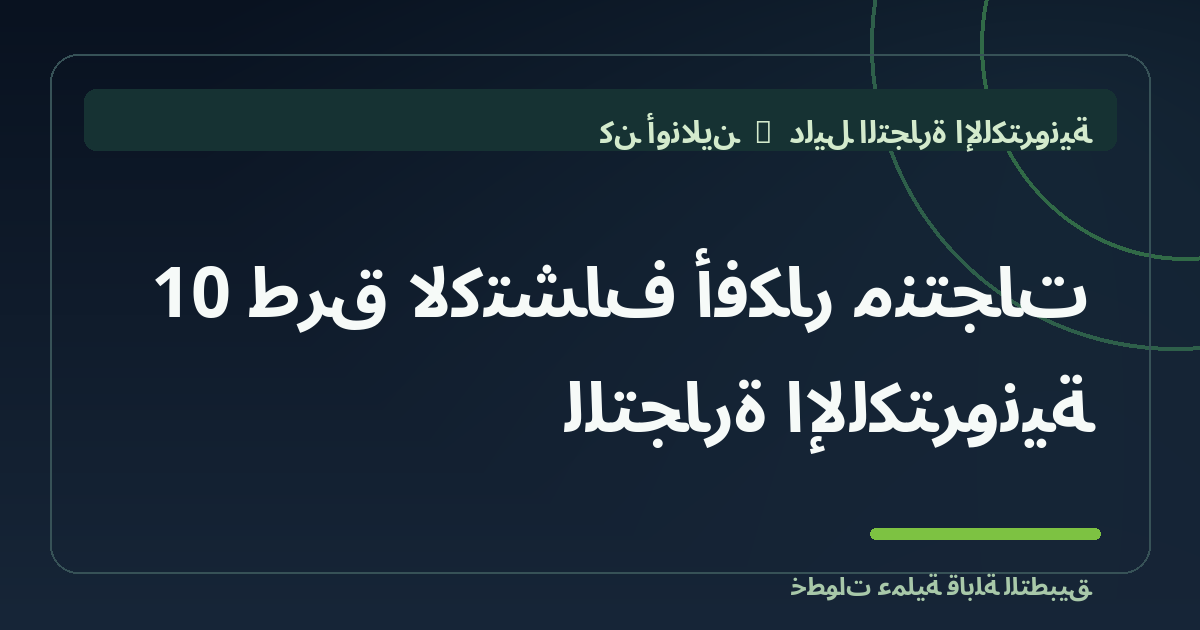
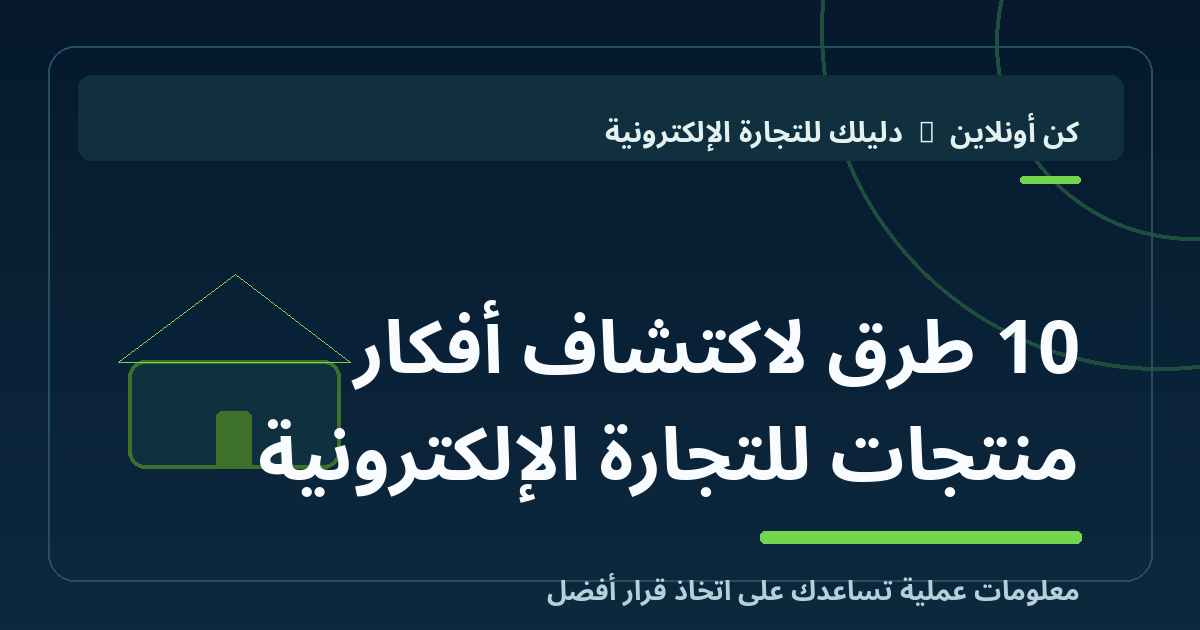
assets: rebuild Arabic editorial imagery with correct RTL shaping

diff --git a/blog/index.html b/blog/index.html
@@ -1,1 +1,1 @@
-<!doctype html><html lang="ar-EG" dir="rtl"><head><meta charset="utf-8"><meta name="viewport" content="width=device-width,initial-scale=1"><title>مدونة التجارة الإلكترونية في مصر | كن أونلاين</title><meta name="description" content="أدلة عملية لبناء المتجر وتخطيط التكلفة وإدارة الإعلانات والطلبات وقراءة الربح، مع أمثلة توضيحية وروابط لخدمات كن أونلاين."><meta name="robots" content="index,follow"><link rel="canonical" href="https://kun-online.com/blog/"><meta property="og:type" content="website"><meta property="og:title" content="مدونة التجارة الإلكترونية في مصر | كن أونلاين"><meta property="og:description" content="أدلة عملية لبناء المتجر وتخطيط التكلفة وإدارة الإعلانات والطلبات وقراءة الربح، مع أمثلة توضيحية وروابط لخدمات كن أونلاين."><meta property="og:url" content="https://kun-online.com/blog/"><link rel="preconnect" href="https://fonts.googleapis.com"><link rel="preconnect" href="https://fonts.gstatic.com" crossorigin><link href="https://fonts.googleapis.com/css2?family=Cairo:wght@400;600;700&family=Tajawal:wght@700;900&display=swap" rel="stylesheet"><link rel="stylesheet" href="/assets/site.css?v=agency-ui-20261018"><script type="application/ld+json">{"@context":"https://schema.org","@type":"Organization","@id":"https://kun-online.com/#organization","name":"كن أونلاين","alternateName":"Kun Online","url":"https://kun-online.com/","address":{"@type":"PostalAddress","addressCountry":"EG","addressRegion":"أسيوط","addressLocality":"أسيوط","streetAddress":"ميدان الأزهر"},"contactPoint":{"@type":"ContactPoint","contactType":"customer support","url":"https://wa.me/201021231619","description":"WhatsApp messages only; no voice calls."},"sameAs":["https://www.facebook.com/KunOnlineAgency","https://www.instagram.com/kunonlin/"]}</script><script type="application/ld+json">{"@context":"https://schema.org","@type":"CollectionPage","@id":"https://kun-online.com/blog/#page","url":"https://kun-online.com/blog/","name":"أدلة التجارة الإلكترونية للمتاجر في مصر","description":"أدلة عملية لبناء المتجر وتخطيط التكلفة وإدارة الإعلانات والطلبات وقراءة الربح، مع أمثلة توضيحية وروابط لخدمات كن أونلاين.","inLanguage":"ar-EG","isPartOf":{"@id":"https://kun-online.com/#website"},"about":{"@id":"https://kun-online.com/#organization"}}</script><script type="application/ld+json">{"@context":"https://schema.org","@type":"BreadcrumbList","itemListElement":[{"@type":"ListItem","position":1,"name":"الرئيسية","item":"https://kun-online.com/"},{"@type":"ListItem","position":2,"name":"أدلة التجارة الإلكترونية للمتاجر في مصر","item":"https://kun-online.com/blog/"}]}</script></head><body><nav class="site-nav" aria-label="التنقل الرئيسي"><a class="brand" href="/">كن <em>أونلاين</em></a><div class="site-links"><a href="/services/">الخدمات</a><a href="/system/">السيستم</a><a href="/about/">من نحن</a><a href="/pricing/">التسعير</a><a href="/blog/">المدونة</a><a href="/contact/">تواصل معنا</a></div><a class="phone" href="https://wa.me/201021231619" target="_blank" rel="noopener" aria-label="تواصل عبر واتساب">تواصل عبر واتساب</a></nav><main class="page"><p class="eyebrow">كن أونلاين · مصر والخليج</p><h1>أدلة التجارة الإلكترونية للمتاجر في مصر</h1><p class="lead">أدلة عملية لبناء المتجر وتخطيط التكلفة وإدارة الإعلانات والطلبات وقراءة الربح، مع أمثلة توضيحية وروابط لخدمات كن أونلاين.</p><section><label for="blog-search">ابحث في المقالات</label><input id="blog-search" type="search" placeholder="مثل: تكلفة المتجر أو الإعلانات" style="width:100%;padding:14px;border-radius:8px;font:inherit"><label for="blog-category">الموضوع</label><select id="blog-category" style="padding:12px;font:inherit"><option value="all">كل الموضوعات</option><option value="store">بناء المتجر</option><option value="ads">التسويق والإعلانات</option><option value="finance">الإدارة المالية</option><option value="ops">الطلبات والمخزون</option></select><p id="blog-empty" hidden>لا توجد مقالات تطابق البحث. جرب كلمة أخرى.</p><div class="grid"><!-- articles:start --><article class="card blog-card" data-category="store"><img src="/blog/images/ecommerce-product-ideas-research.png" alt="10 طرق لاكتشاف أفكار منتجات للتجارة الإلكترونية" width="1200" height="630" loading="lazy" decoding="async"><p>بناء المتجر · 19 أكتوبر 2026 · 11 دقائق</p><h2><a href="/blog/ecommerce-product-ideas-research">10 طرق لاكتشاف أفكار منتجات للتجارة الإلكترونية</a></h2><p>اكتشف عشر طرق عملية للعثور على أفكار منتجات قابلة للاختبار، من المراجعات وGoogle Trends إلى TikTok وMeta Ads Library، مع طريقة تقييم قبل شراء المخزون.</p></article><article class="card blog-card" data-category="store"><picture><source type="image/webp" srcset="/blog/images/ecommerce-first-30-days-plan-640.webp 640w, /blog/images/ecommerce-first-30-days-plan.webp 1200w" sizes="(max-width:600px) 90vw, 330px"><img src="/blog/images/ecommerce-first-30-days-plan.png" alt="خطة أول 30 يوم لبدء التجارة الإلكترونية من الصفر" width="1200" height="630" loading="lazy" decoding="async"></picture><p>بناء المتجر · 18 أكتوبر 2026 · 12 دقائق</p><h2><a href="/blog/ecommerce-first-30-days-plan">خطة أول 30 يوم لبدء التجارة الإلكترونية من الصفر</a></h2><p>خطة تنفيذية لأول 30 يوم في التجارة الإلكترونية من اختيار المنتج والمورد إلى التسعير والمتجر والإعلانات والشحن، مع مؤشرات قرار عملية لكل أسبوع.</p></article><article class="card blog-card" data-category="store"><picture><source type="image/webp" srcset="/blog/images/is-ecommerce-right-for-you-640.webp 640w, /blog/images/is-ecommerce-right-for-you.webp 1200w" sizes="(max-width:600px) 90vw, 330px"><img src="/blog/images/is-ecommerce-right-for-you.png" alt="هل التجارة الإلكترونية مناسبة لك؟ اختبر قرار بدء متجرك" width="1200" height="630" loading="lazy" decoding="async"></picture><p>بناء المتجر · 17 أكتوبر 2026 · 12 دقائق</p><h2><a href="/blog/is-ecommerce-right-for-you">هل التجارة الإلكترونية مناسبة لك؟ اختبر قرار بدء متجرك</a></h2><p>اختبر مدى ملاءمة التجارة الإلكترونية لوقتك وميزانيتك ومهاراتك. قارن المتجر المستقل والمنصات وتقديم الخدمات، واستخدم مصفوفة قرار قبل بدء مشروعك.</p></article><article class="card blog-card" data-category="finance"><picture><source type="image/webp" srcset="/blog/images/cod-shipping-returns-reconciliation-640.webp 640w, /blog/images/cod-shipping-returns-reconciliation.webp 1200w" sizes="(max-width:600px) 90vw, 330px"><img src="/blog/images/cod-shipping-returns-reconciliation.png" alt="الشحن والتحصيل COD والمرتجعات: مطابقة الأرقام خطوة بخطوة" width="1200" height="630" loading="lazy" decoding="async"></picture><p>المالية والشحن · 15 أكتوبر 2026 · 9 دقائق</p><h2><a href="/blog/cod-shipping-returns-reconciliation">الشحن والتحصيل COD والمرتجعات: مطابقة الأرقام خطوة بخطوة</a></h2><p>دليل لفصل حالة التسليم عن التحصيل المسجل والتسوية البنكية، وحساب رسوم الشحن والمرتجعات دون مضاعفة الإيرادات.</p></article><article class="card blog-card" data-category="ops"><picture><source type="image/webp" srcset="/blog/images/inventory-barcode-bundle-tracking-640.webp 640w, /blog/images/inventory-barcode-bundle-tracking.webp 1200w" sizes="(max-width:600px) 90vw, 330px"><img src="/blog/images/inventory-barcode-bundle-tracking.png" alt="إدارة المخزون بالباركود والباندلز: من الاستلام للمرتجع" width="1200" height="630" loading="lazy" decoding="async"></picture><p>المخزون والعمليات · 15 أكتوبر 2026 · 10 دقائق</p><h2><a href="/blog/inventory-barcode-bundle-tracking">إدارة المخزون بالباركود والباندلز: من الاستلام للمرتجع</a></h2><p>دليل عملي لفهم SKU والباركود وتتبع القطعة ومكونات الباندل والجرد ومسار المرتجعات في المتاجر الإلكترونية.</p></article><article class="card blog-card" data-category="ops"><picture><source type="image/webp" srcset="/blog/images/order-confirmation-delivery-rate-640.webp 640w, /blog/images/order-confirmation-delivery-rate.webp 1200w" sizes="(max-width:600px) 90vw, 330px"><img src="/blog/images/order-confirmation-delivery-rate.png" alt="نسبة تأكيد وتسليم الطلبات: طريقة الحساب الصحيحة" width="1200" height="630" loading="lazy" decoding="async"></picture><p>الطلبات والتشغيل · 15 أكتوبر 2026 · 10 دقائق</p><h2><a href="/blog/order-confirmation-delivery-rate">نسبة تأكيد وتسليم الطلبات: طريقة الحساب الصحيحة</a></h2><p>افهم اختلاف نسب التأكيد والتسليم والرفض والمرتجع ومتى تقارن دفعات الأوردرات دون تضليل بسبب حالات الشحن المعلقة.</p></article><article class="card blog-card" data-category="finance"><picture><source type="image/webp" srcset="/blog/images/real-cost-per-delivered-order-640.webp 640w, /blog/images/real-cost-per-delivered-order.webp 1200w" sizes="(max-width:600px) 90vw, 330px"><img src="/blog/images/real-cost-per-delivered-order.png" alt="تكلفة الطلب الفعلية: من الإعلان إلى التسليم" width="1200" height="630" loading="lazy" decoding="async"></picture><p>الأرقام والربحية · 15 أكتوبر 2026 · 10 دقائق</p><h2><a href="/blog/real-cost-per-delivered-order">تكلفة الطلب الفعلية: من الإعلان إلى التسليم</a></h2><p>تعرف على طريقة حساب تكلفة الطلب المسجل والمؤكد والمسلّم، وفصل ROAS عن هامش المساهمة والتحصيل بأمثلة حسابية واضحة.</p></article><article class="card blog-card" data-category="store"><picture><source type="image/webp" srcset="/blog/images/brand-vs-product-business-640.webp 640w, /blog/images/brand-vs-product-business.webp 1200w" sizes="(max-width:600px) 90vw, 330px"><img src="/blog/images/brand-vs-product-business.png" alt="متى تبدأ بناء براند لمتجرك؟" width="1200" height="630" loading="lazy" decoding="async"></picture><p>بناء المتجر · 2 سبتمبر 2026 · 10 دقائق</p><h2><a href="/blog/brand-vs-product-business">متى تبدأ بناء براند لمتجرك؟</a></h2><p>اختار الوقت المناسب لبناء هوية متجرك، وفرق بين اختبار المنتج والاستثمار في البراند. أمثلة توضيحية وخطوات عملية تساعدك في القرار.</p></article><article class="card blog-card" data-category="store"><picture><source type="image/webp" srcset="/blog/images/owned-vs-rented-channels-640.webp 640w, /blog/images/owned-vs-rented-channels.webp 1200w" sizes="(max-width:600px) 90vw, 330px"><img src="/blog/images/owned-vs-rented-channels.png" alt="متجر إلكتروني أم منصات البيع؟ دليل الاختيار" width="1200" height="630" loading="lazy" decoding="async"></picture><p>بناء المتجر · 1 سبتمبر 2026 · 10 دقائق</p><h2><a href="/blog/owned-vs-rented-channels">متجر إلكتروني أم منصات البيع؟ دليل الاختيار</a></h2><p>قارن بين المتجر المستقل ومنصات البيع والسوشيال ميديا من حيث التحكم والتكلفة وعلاقة العميل، واختار ما يناسب مرحلة مشروعك.</p></article><article class="card blog-card" data-category="finance"><picture><source type="image/webp" srcset="/blog/images/essential-ecommerce-glossary-640.webp 640w, /blog/images/essential-ecommerce-glossary.webp 1200w" sizes="(max-width:600px) 90vw, 330px"><img src="/blog/images/essential-ecommerce-glossary.png" alt="مصطلحات التجارة الإلكترونية: 25 مؤشرًا عمليًا" width="1200" height="630" loading="lazy" decoding="async"></picture><p>الإدارة المالية · 31 أغسطس 2026 · 10 دقائق</p><h2><a href="/blog/essential-ecommerce-glossary">مصطلحات التجارة الإلكترونية: 25 مؤشرًا عمليًا</a></h2><p>افهم CAC وROAS وMER وهامش المساهمة وتدفق الأموال، مع معادلات وأمثلة حسابية توضيحية تساعدك تقرأ أرقام متجرك.</p></article><article class="card blog-card" data-category="ads"><picture><source type="image/webp" srcset="/blog/images/ecommerce-funnel-explained-640.webp 640w, /blog/images/ecommerce-funnel-explained.webp 1200w" sizes="(max-width:600px) 90vw, 330px"><img src="/blog/images/ecommerce-funnel-explained.png" alt="ما هو Funnel التجارة الإلكترونية؟" width="1200" height="630" loading="lazy" decoding="async"></picture><p>التسويق والإعلانات · 30 أغسطس 2026 · 10 دقائق</p><h2><a href="/blog/ecommerce-funnel-explained">ما هو Funnel التجارة الإلكترونية؟</a></h2><p>شرح مراحل رحلة العميل من التعرف على المنتج إلى الشراء والعودة، مع أمثلة توضيحية وروابط تساعدك تميز المفهوم عن قياس أداء المتجر.</p></article><article class="card blog-card" data-category="ads"><picture><source type="image/webp" srcset="/blog/images/customer-funnel-guide-640.webp 640w, /blog/images/customer-funnel-guide.webp 1200w" sizes="(max-width:600px) 90vw, 330px"><img src="/blog/images/customer-funnel-guide.png" alt="تحسين تحويل المتجر: قياس تسرب رحلة العميل" width="1200" height="630" loading="lazy" decoding="async"></picture><p>التسويق والإعلانات · 29 أغسطس 2026 · 10 دقائق</p><h2><a href="/blog/customer-funnel-guide">تحسين تحويل المتجر: قياس تسرب رحلة العميل</a></h2><p>تعلم كيف تقيس انتقال الزائر من صفحة المنتج إلى السلة والشراء، وتحدد نقطة التسرب وتختبر التحسينات بمثال حسابي توضيحي.</p></article><article class="card blog-card" data-category="store"><picture><source type="image/webp" srcset="/blog/images/product-marketing-operations-ecommerce-640.webp 640w, /blog/images/product-marketing-operations-ecommerce.webp 1200w" sizes="(max-width:600px) 90vw, 330px"><img src="/blog/images/product-marketing-operations-ecommerce.png" alt="عوامل نجاح المتجر: المنتج والتسويق والتشغيل" width="1200" height="630" loading="lazy" decoding="async"></picture><p>بناء المتجر · 28 أغسطس 2026 · 10 دقائق</p><h2><a href="/blog/product-marketing-operations-ecommerce">عوامل نجاح المتجر: المنتج والتسويق والتشغيل</a></h2><p>افهم كيف تعمل جودة المنتج والعرض وتجربة المتجر والتسويق والتشغيل معًا، بدل الاعتماد على الإعلانات وحدها لنجاح مشروعك.</p></article><article class="card blog-card" data-category="store"><picture><source type="image/webp" srcset="/blog/images/common-ecommerce-beginner-mistakes-640.webp 640w, /blog/images/common-ecommerce-beginner-mistakes.webp 1200w" sizes="(max-width:600px) 90vw, 330px"><img src="/blog/images/common-ecommerce-beginner-mistakes.png" alt="10 أخطاء عند بدء التجارة الإلكترونية" width="1200" height="630" loading="lazy" decoding="async"></picture><p>بناء المتجر · 28 أغسطس 2026 · 11 دقائق</p><h2><a href="/blog/common-ecommerce-beginner-mistakes">10 أخطاء عند بدء التجارة الإلكترونية</a></h2><p>تجنب أخطاء المخزون والميزانية والتسعير والإعلانات والمرتجعات عند بدء متجرك، بخطوات عملية وأمثلة توضيحية.</p></article><article class="card blog-card" data-category="store"><picture><source type="image/webp" srcset="/blog/images/startup-budget-egypt-640.webp 640w, /blog/images/startup-budget-egypt.webp 1200w" sizes="(max-width:600px) 90vw, 330px"><img src="/blog/images/startup-budget-egypt.png" alt="تكلفة بدء التجارة الإلكترونية في مصر" width="1200" height="630" loading="lazy" decoding="async"></picture><p>بناء المتجر · 27 أغسطس 2026 · 10 دقائق</p><h2><a href="/blog/startup-budget-egypt">تكلفة بدء التجارة الإلكترونية في مصر</a></h2><p>خطط ميزانية متجرك بين المنتج والمنصة والتصوير والإعلانات والشحن. أمثلة حسابية للتخطيط وليست عروض أسعار ثابتة.</p></article><article class="card blog-card" data-category="store"><picture><source type="image/webp" srcset="/blog/images/ecommerce-complete-journey-guide-640.webp 640w, /blog/images/ecommerce-complete-journey-guide.webp 1200w" sizes="(max-width:600px) 90vw, 330px"><img src="/blog/images/ecommerce-complete-journey-guide.png" alt="بدء التجارة الإلكترونية: من الفكرة لأول طلب" width="1200" height="630" loading="lazy" decoding="async"></picture><p>بناء المتجر · 26 أغسطس 2026 · 10 دقائق</p><h2><a href="/blog/ecommerce-complete-journey-guide">بدء التجارة الإلكترونية: من الفكرة لأول طلب</a></h2><p>دليل بداية المتجر: اختيار المنتج وتجهيز المحتوى وبناء المتجر والتسويق والطلبات، مع خطوات عملية لكل مرحلة.</p></article><article class="card blog-card" data-category="store"><picture><source type="image/webp" srcset="/blog/images/ecommerce-evolution-history-640.webp 640w, /blog/images/ecommerce-evolution-history.webp 1200w" sizes="(max-width:600px) 90vw, 330px"><img src="/blog/images/ecommerce-evolution-history.png" alt="تطور التجارة الإلكترونية وفرص المتاجر" width="1200" height="630" loading="lazy" decoding="async"></picture><p>بناء المتجر · 26 أغسطس 2026 · 9 دقائق</p><h2><a href="/blog/ecommerce-evolution-history">تطور التجارة الإلكترونية وفرص المتاجر</a></h2><p>تعرف على انتقال التجارة من المتاجر التقليدية إلى الإنترنت والهواتف، وما تعنيه هذه التحولات للعميل وتشغيل متجرك اليوم.</p></article><article class="card blog-card" data-category="store"><picture><source type="image/webp" srcset="/blog/images/what-is-ecommerce-640.webp 640w, /blog/images/what-is-ecommerce.webp 1200w" sizes="(max-width:600px) 90vw, 330px"><img src="/blog/images/what-is-ecommerce.png" alt="ما هي التجارة الإلكترونية؟ دليل للمبتدئين" width="1200" height="630" loading="lazy" decoding="async"></picture><p>بناء المتجر · 25 أغسطس 2026 · 9 دقائق</p><h2><a href="/blog/what-is-ecommerce">ما هي التجارة الإلكترونية؟ دليل للمبتدئين</a></h2><p>افهم التجارة الإلكترونية وأنواعها والمنظومة من المنتج إلى الطلب والشحن، قبل اتخاذ قرار بناء متجرك والبدء في البيع أونلاين.</p></article><!-- articles:end --></div></section><script src="/assets/blog.js" defer></script><div class="service-cta"><h2>ناقش احتياجات متجرك مع الفريق</h2><p>أرسل نوع منتجاتك والمنصة الحالية والمشكلة التي تريد حلها، لنحدد نطاق الخدمة المناسب لك.</p><a class="button" href="https://wa.me/201021231619" target="_blank" rel="noopener">تواصل على واتساب</a> </div></main><footer class="site-footer"><p>كن أونلاين — بناء وإدارة المتاجر الإلكترونية في مصر والخليج.</p><p>مصر — أسيوط — ميدان الأزهر</p><p><a href="https://wa.me/201021231619" target="_blank" rel="noopener">تواصل عبر واتساب</a></p><p><a href="/services/">الخدمات</a> · <a href="/system/">السيستم</a> · <a href="/about/">من نحن</a> · <a href="/contact/">تواصل معنا</a></p><p>© 2026 كن أونلاين — جميع الحقوق محفوظة</p><p class="social-links" aria-label="حسابات كن أونلاين الرسمية">تابع كن أونلاين: <a href="https://www.facebook.com/KunOnlineAgency" target="_blank" rel="noopener noreferrer">فيسبوك</a> · <a href="https://www.instagram.com/kunonlin/" target="_blank" rel="noopener noreferrer">إنستجرام</a></p></footer><script src="/assets/site.js?v=5a700dfc0ebe" defer></script></body></html>
+<!doctype html><html lang="ar-EG" dir="rtl"><head><meta charset="utf-8"><meta name="viewport" content="width=device-width,initial-scale=1"><title>مدونة التجارة الإلكترونية في مصر | كن أونلاين</title><meta name="description" content="أدلة عملية لبناء المتجر وتخطيط التكلفة وإدارة الإعلانات والطلبات وقراءة الربح، مع أمثلة توضيحية وروابط لخدمات كن أونلاين."><meta name="robots" content="index,follow"><link rel="canonical" href="https://kun-online.com/blog/"><meta property="og:type" content="website"><meta property="og:title" content="مدونة التجارة الإلكترونية في مصر | كن أونلاين"><meta property="og:description" content="أدلة عملية لبناء المتجر وتخطيط التكلفة وإدارة الإعلانات والطلبات وقراءة الربح، مع أمثلة توضيحية وروابط لخدمات كن أونلاين."><meta property="og:url" content="https://kun-online.com/blog/"><link rel="preconnect" href="https://fonts.googleapis.com"><link rel="preconnect" href="https://fonts.gstatic.com" crossorigin><link href="https://fonts.googleapis.com/css2?family=Cairo:wght@400;600;700&family=Tajawal:wght@700;900&display=swap" rel="stylesheet"><link rel="stylesheet" href="/assets/site.css?v=agency-ui-20261018"><script type="application/ld+json">{"@context":"https://schema.org","@type":"Organization","@id":"https://kun-online.com/#organization","name":"كن أونلاين","alternateName":"Kun Online","url":"https://kun-online.com/","address":{"@type":"PostalAddress","addressCountry":"EG","addressRegion":"أسيوط","addressLocality":"أسيوط","streetAddress":"ميدان الأزهر"},"contactPoint":{"@type":"ContactPoint","contactType":"customer support","url":"https://wa.me/201021231619","description":"WhatsApp messages only; no voice calls."},"sameAs":["https://www.facebook.com/KunOnlineAgency","https://www.instagram.com/kunonlin/"]}</script><script type="application/ld+json">{"@context":"https://schema.org","@type":"CollectionPage","@id":"https://kun-online.com/blog/#page","url":"https://kun-online.com/blog/","name":"أدلة التجارة الإلكترونية للمتاجر في مصر","description":"أدلة عملية لبناء المتجر وتخطيط التكلفة وإدارة الإعلانات والطلبات وقراءة الربح، مع أمثلة توضيحية وروابط لخدمات كن أونلاين.","inLanguage":"ar-EG","isPartOf":{"@id":"https://kun-online.com/#website"},"about":{"@id":"https://kun-online.com/#organization"}}</script><script type="application/ld+json">{"@context":"https://schema.org","@type":"BreadcrumbList","itemListElement":[{"@type":"ListItem","position":1,"name":"الرئيسية","item":"https://kun-online.com/"},{"@type":"ListItem","position":2,"name":"أدلة التجارة الإلكترونية للمتاجر في مصر","item":"https://kun-online.com/blog/"}]}</script></head><body><nav class="site-nav" aria-label="التنقل الرئيسي"><a class="brand" href="/">كن <em>أونلاين</em></a><div class="site-links"><a href="/services/">الخدمات</a><a href="/system/">السيستم</a><a href="/about/">من نحن</a><a href="/pricing/">التسعير</a><a href="/blog/">المدونة</a><a href="/contact/">تواصل معنا</a></div><a class="phone" href="https://wa.me/201021231619" target="_blank" rel="noopener" aria-label="تواصل عبر واتساب">تواصل عبر واتساب</a></nav><main class="page"><p class="eyebrow">كن أونلاين · مصر والخليج</p><h1>أدلة التجارة الإلكترونية للمتاجر في مصر</h1><p class="lead">أدلة عملية لبناء المتجر وتخطيط التكلفة وإدارة الإعلانات والطلبات وقراءة الربح، مع أمثلة توضيحية وروابط لخدمات كن أونلاين.</p><section><label for="blog-search">ابحث في المقالات</label><input id="blog-search" type="search" placeholder="مثل: تكلفة المتجر أو الإعلانات" style="width:100%;padding:14px;border-radius:8px;font:inherit"><label for="blog-category">الموضوع</label><select id="blog-category" style="padding:12px;font:inherit"><option value="all">كل الموضوعات</option><option value="store">بناء المتجر</option><option value="ads">التسويق والإعلانات</option><option value="finance">الإدارة المالية</option><option value="ops">الطلبات والمخزون</option></select><p id="blog-empty" hidden>لا توجد مقالات تطابق البحث. جرب كلمة أخرى.</p><div class="grid"><!-- articles:start --><article class="card blog-card" data-category="store"><picture><source type="image/webp" srcset="/blog/images/ecommerce-product-ideas-research-640.webp?v=rtl-raqm-20261019 640w, /blog/images/ecommerce-product-ideas-research.webp?v=rtl-raqm-20261019 1200w" sizes="(max-width:600px) 90vw, 330px"><img src="/blog/images/ecommerce-product-ideas-research.png?v=rtl-raqm-20261019" alt="10 طرق لاكتشاف أفكار منتجات للتجارة الإلكترونية" width="1200" height="630" loading="lazy" decoding="async"></picture><p>بناء المتجر · 19 أكتوبر 2026 · 11 دقائق</p><h2><a href="/blog/ecommerce-product-ideas-research">10 طرق لاكتشاف أفكار منتجات للتجارة الإلكترونية</a></h2><p>اكتشف عشر طرق عملية للعثور على أفكار منتجات قابلة للاختبار، من المراجعات وGoogle Trends إلى TikTok وMeta Ads Library، مع طريقة تقييم قبل شراء المخزون.</p></article><article class="card blog-card" data-category="store"><picture><source type="image/webp" srcset="/blog/images/ecommerce-first-30-days-plan-640.webp?v=rtl-raqm-20261019 640w, /blog/images/ecommerce-first-30-days-plan.webp?v=rtl-raqm-20261019 1200w" sizes="(max-width:600px) 90vw, 330px"><img src="/blog/images/ecommerce-first-30-days-plan.png?v=rtl-raqm-20261019" alt="خطة أول 30 يوم لبدء التجارة الإلكترونية من الصفر" width="1200" height="630" loading="lazy" decoding="async"></picture><p>بناء المتجر · 18 أكتوبر 2026 · 12 دقائق</p><h2><a href="/blog/ecommerce-first-30-days-plan">خطة أول 30 يوم لبدء التجارة الإلكترونية من الصفر</a></h2><p>خطة تنفيذية لأول 30 يوم في التجارة الإلكترونية من اختيار المنتج والمورد إلى التسعير والمتجر والإعلانات والشحن، مع مؤشرات قرار عملية لكل أسبوع.</p></article><article class="card blog-card" data-category="store"><picture><source type="image/webp" srcset="/blog/images/is-ecommerce-right-for-you-640.webp?v=rtl-raqm-20261019 640w, /blog/images/is-ecommerce-right-for-you.webp?v=rtl-raqm-20261019 1200w" sizes="(max-width:600px) 90vw, 330px"><img src="/blog/images/is-ecommerce-right-for-you.png?v=rtl-raqm-20261019" alt="هل التجارة الإلكترونية مناسبة لك؟ اختبر قرار بدء متجرك" width="1200" height="630" loading="lazy" decoding="async"></picture><p>بناء المتجر · 17 أكتوبر 2026 · 12 دقائق</p><h2><a href="/blog/is-ecommerce-right-for-you">هل التجارة الإلكترونية مناسبة لك؟ اختبر قرار بدء متجرك</a></h2><p>اختبر مدى ملاءمة التجارة الإلكترونية لوقتك وميزانيتك ومهاراتك. قارن المتجر المستقل والمنصات وتقديم الخدمات، واستخدم مصفوفة قرار قبل بدء مشروعك.</p></article><article class="card blog-card" data-category="finance"><picture><source type="image/webp" srcset="/blog/images/cod-shipping-returns-reconciliation-640.webp?v=rtl-raqm-20261019 640w, /blog/images/cod-shipping-returns-reconciliation.webp?v=rtl-raqm-20261019 1200w" sizes="(max-width:600px) 90vw, 330px"><img src="/blog/images/cod-shipping-returns-reconciliation.png?v=rtl-raqm-20261019" alt="الشحن والتحصيل COD والمرتجعات: مطابقة الأرقام خطوة بخطوة" width="1200" height="630" loading="lazy" decoding="async"></picture><p>المالية والشحن · 15 أكتوبر 2026 · 9 دقائق</p><h2><a href="/blog/cod-shipping-returns-reconciliation">الشحن والتحصيل COD والمرتجعات: مطابقة الأرقام خطوة بخطوة</a></h2><p>دليل لفصل حالة التسليم عن التحصيل المسجل والتسوية البنكية، وحساب رسوم الشحن والمرتجعات دون مضاعفة الإيرادات.</p></article><article class="card blog-card" data-category="ops"><picture><source type="image/webp" srcset="/blog/images/inventory-barcode-bundle-tracking-640.webp?v=rtl-raqm-20261019 640w, /blog/images/inventory-barcode-bundle-tracking.webp?v=rtl-raqm-20261019 1200w" sizes="(max-width:600px) 90vw, 330px"><img src="/blog/images/inventory-barcode-bundle-tracking.png?v=rtl-raqm-20261019" alt="إدارة المخزون بالباركود والباندلز: من الاستلام للمرتجع" width="1200" height="630" loading="lazy" decoding="async"></picture><p>المخزون والعمليات · 15 أكتوبر 2026 · 10 دقائق</p><h2><a href="/blog/inventory-barcode-bundle-tracking">إدارة المخزون بالباركود والباندلز: من الاستلام للمرتجع</a></h2><p>دليل عملي لفهم SKU والباركود وتتبع القطعة ومكونات الباندل والجرد ومسار المرتجعات في المتاجر الإلكترونية.</p></article><article class="card blog-card" data-category="ops"><picture><source type="image/webp" srcset="/blog/images/order-confirmation-delivery-rate-640.webp?v=rtl-raqm-20261019 640w, /blog/images/order-confirmation-delivery-rate.webp?v=rtl-raqm-20261019 1200w" sizes="(max-width:600px) 90vw, 330px"><img src="/blog/images/order-confirmation-delivery-rate.png?v=rtl-raqm-20261019" alt="نسبة تأكيد وتسليم الطلبات: طريقة الحساب الصحيحة" width="1200" height="630" loading="lazy" decoding="async"></picture><p>الطلبات والتشغيل · 15 أكتوبر 2026 · 10 دقائق</p><h2><a href="/blog/order-confirmation-delivery-rate">نسبة تأكيد وتسليم الطلبات: طريقة الحساب الصحيحة</a></h2><p>افهم اختلاف نسب التأكيد والتسليم والرفض والمرتجع ومتى تقارن دفعات الأوردرات دون تضليل بسبب حالات الشحن المعلقة.</p></article><article class="card blog-card" data-category="finance"><picture><source type="image/webp" srcset="/blog/images/real-cost-per-delivered-order-640.webp?v=rtl-raqm-20261019 640w, /blog/images/real-cost-per-delivered-order.webp?v=rtl-raqm-20261019 1200w" sizes="(max-width:600px) 90vw, 330px"><img src="/blog/images/real-cost-per-delivered-order.png?v=rtl-raqm-20261019" alt="تكلفة الطلب الفعلية: من الإعلان إلى التسليم" width="1200" height="630" loading="lazy" decoding="async"></picture><p>الأرقام والربحية · 15 أكتوبر 2026 · 10 دقائق</p><h2><a href="/blog/real-cost-per-delivered-order">تكلفة الطلب الفعلية: من الإعلان إلى التسليم</a></h2><p>تعرف على طريقة حساب تكلفة الطلب المسجل والمؤكد والمسلّم، وفصل ROAS عن هامش المساهمة والتحصيل بأمثلة حسابية واضحة.</p></article><article class="card blog-card" data-category="store"><picture><source type="image/webp" srcset="/blog/images/brand-vs-product-business-640.webp?v=rtl-raqm-20261019 640w, /blog/images/brand-vs-product-business.webp?v=rtl-raqm-20261019 1200w" sizes="(max-width:600px) 90vw, 330px"><img src="/blog/images/brand-vs-product-business.png?v=rtl-raqm-20261019" alt="متى تبدأ بناء براند لمتجرك؟" width="1200" height="630" loading="lazy" decoding="async"></picture><p>بناء المتجر · 2 سبتمبر 2026 · 10 دقائق</p><h2><a href="/blog/brand-vs-product-business">متى تبدأ بناء براند لمتجرك؟</a></h2><p>اختار الوقت المناسب لبناء هوية متجرك، وفرق بين اختبار المنتج والاستثمار في البراند. أمثلة توضيحية وخطوات عملية تساعدك في القرار.</p></article><article class="card blog-card" data-category="store"><picture><source type="image/webp" srcset="/blog/images/owned-vs-rented-channels-640.webp?v=rtl-raqm-20261019 640w, /blog/images/owned-vs-rented-channels.webp?v=rtl-raqm-20261019 1200w" sizes="(max-width:600px) 90vw, 330px"><img src="/blog/images/owned-vs-rented-channels.png?v=rtl-raqm-20261019" alt="متجر إلكتروني أم منصات البيع؟ دليل الاختيار" width="1200" height="630" loading="lazy" decoding="async"></picture><p>بناء المتجر · 1 سبتمبر 2026 · 10 دقائق</p><h2><a href="/blog/owned-vs-rented-channels">متجر إلكتروني أم منصات البيع؟ دليل الاختيار</a></h2><p>قارن بين المتجر المستقل ومنصات البيع والسوشيال ميديا من حيث التحكم والتكلفة وعلاقة العميل، واختار ما يناسب مرحلة مشروعك.</p></article><article class="card blog-card" data-category="finance"><picture><source type="image/webp" srcset="/blog/images/essential-ecommerce-glossary-640.webp?v=rtl-raqm-20261019 640w, /blog/images/essential-ecommerce-glossary.webp?v=rtl-raqm-20261019 1200w" sizes="(max-width:600px) 90vw, 330px"><img src="/blog/images/essential-ecommerce-glossary.png?v=rtl-raqm-20261019" alt="مصطلحات التجارة الإلكترونية: 25 مؤشرًا عمليًا" width="1200" height="630" loading="lazy" decoding="async"></picture><p>الإدارة المالية · 31 أغسطس 2026 · 10 دقائق</p><h2><a href="/blog/essential-ecommerce-glossary">مصطلحات التجارة الإلكترونية: 25 مؤشرًا عمليًا</a></h2><p>افهم CAC وROAS وMER وهامش المساهمة وتدفق الأموال، مع معادلات وأمثلة حسابية توضيحية تساعدك تقرأ أرقام متجرك.</p></article><article class="card blog-card" data-category="ads"><picture><source type="image/webp" srcset="/blog/images/ecommerce-funnel-explained-640.webp?v=rtl-raqm-20261019 640w, /blog/images/ecommerce-funnel-explained.webp?v=rtl-raqm-20261019 1200w" sizes="(max-width:600px) 90vw, 330px"><img src="/blog/images/ecommerce-funnel-explained.png?v=rtl-raqm-20261019" alt="ما هو Funnel التجارة الإلكترونية؟" width="1200" height="630" loading="lazy" decoding="async"></picture><p>التسويق والإعلانات · 30 أغسطس 2026 · 10 دقائق</p><h2><a href="/blog/ecommerce-funnel-explained">ما هو Funnel التجارة الإلكترونية؟</a></h2><p>شرح مراحل رحلة العميل من التعرف على المنتج إلى الشراء والعودة، مع أمثلة توضيحية وروابط تساعدك تميز المفهوم عن قياس أداء المتجر.</p></article><article class="card blog-card" data-category="ads"><picture><source type="image/webp" srcset="/blog/images/customer-funnel-guide-640.webp?v=rtl-raqm-20261019 640w, /blog/images/customer-funnel-guide.webp?v=rtl-raqm-20261019 1200w" sizes="(max-width:600px) 90vw, 330px"><img src="/blog/images/customer-funnel-guide.png?v=rtl-raqm-20261019" alt="تحسين تحويل المتجر: قياس تسرب رحلة العميل" width="1200" height="630" loading="lazy" decoding="async"></picture><p>التسويق والإعلانات · 29 أغسطس 2026 · 10 دقائق</p><h2><a href="/blog/customer-funnel-guide">تحسين تحويل المتجر: قياس تسرب رحلة العميل</a></h2><p>تعلم كيف تقيس انتقال الزائر من صفحة المنتج إلى السلة والشراء، وتحدد نقطة التسرب وتختبر التحسينات بمثال حسابي توضيحي.</p></article><article class="card blog-card" data-category="store"><picture><source type="image/webp" srcset="/blog/images/product-marketing-operations-ecommerce-640.webp?v=rtl-raqm-20261019 640w, /blog/images/product-marketing-operations-ecommerce.webp?v=rtl-raqm-20261019 1200w" sizes="(max-width:600px) 90vw, 330px"><img src="/blog/images/product-marketing-operations-ecommerce.png?v=rtl-raqm-20261019" alt="عوامل نجاح المتجر: المنتج والتسويق والتشغيل" width="1200" height="630" loading="lazy" decoding="async"></picture><p>بناء المتجر · 28 أغسطس 2026 · 10 دقائق</p><h2><a href="/blog/product-marketing-operations-ecommerce">عوامل نجاح المتجر: المنتج والتسويق والتشغيل</a></h2><p>افهم كيف تعمل جودة المنتج والعرض وتجربة المتجر والتسويق والتشغيل معًا، بدل الاعتماد على الإعلانات وحدها لنجاح مشروعك.</p></article><article class="card blog-card" data-category="store"><picture><source type="image/webp" srcset="/blog/images/common-ecommerce-beginner-mistakes-640.webp?v=rtl-raqm-20261019 640w, /blog/images/common-ecommerce-beginner-mistakes.webp?v=rtl-raqm-20261019 1200w" sizes="(max-width:600px) 90vw, 330px"><img src="/blog/images/common-ecommerce-beginner-mistakes.png?v=rtl-raqm-20261019" alt="10 أخطاء عند بدء التجارة الإلكترونية" width="1200" height="630" loading="lazy" decoding="async"></picture><p>بناء المتجر · 28 أغسطس 2026 · 11 دقائق</p><h2><a href="/blog/common-ecommerce-beginner-mistakes">10 أخطاء عند بدء التجارة الإلكترونية</a></h2><p>تجنب أخطاء المخزون والميزانية والتسعير والإعلانات والمرتجعات عند بدء متجرك، بخطوات عملية وأمثلة توضيحية.</p></article><article class="card blog-card" data-category="store"><picture><source type="image/webp" srcset="/blog/images/startup-budget-egypt-640.webp?v=rtl-raqm-20261019 640w, /blog/images/startup-budget-egypt.webp?v=rtl-raqm-20261019 1200w" sizes="(max-width:600px) 90vw, 330px"><img src="/blog/images/startup-budget-egypt.png?v=rtl-raqm-20261019" alt="تكلفة بدء التجارة الإلكترونية في مصر" width="1200" height="630" loading="lazy" decoding="async"></picture><p>بناء المتجر · 27 أغسطس 2026 · 10 دقائق</p><h2><a href="/blog/startup-budget-egypt">تكلفة بدء التجارة الإلكترونية في مصر</a></h2><p>خطط ميزانية متجرك بين المنتج والمنصة والتصوير والإعلانات والشحن. أمثلة حسابية للتخطيط وليست عروض أسعار ثابتة.</p></article><article class="card blog-card" data-category="store"><picture><source type="image/webp" srcset="/blog/images/ecommerce-complete-journey-guide-640.webp?v=rtl-raqm-20261019 640w, /blog/images/ecommerce-complete-journey-guide.webp?v=rtl-raqm-20261019 1200w" sizes="(max-width:600px) 90vw, 330px"><img src="/blog/images/ecommerce-complete-journey-guide.png?v=rtl-raqm-20261019" alt="بدء التجارة الإلكترونية: من الفكرة لأول طلب" width="1200" height="630" loading="lazy" decoding="async"></picture><p>بناء المتجر · 26 أغسطس 2026 · 10 دقائق</p><h2><a href="/blog/ecommerce-complete-journey-guide">بدء التجارة الإلكترونية: من الفكرة لأول طلب</a></h2><p>دليل بداية المتجر: اختيار المنتج وتجهيز المحتوى وبناء المتجر والتسويق والطلبات، مع خطوات عملية لكل مرحلة.</p></article><article class="card blog-card" data-category="store"><picture><source type="image/webp" srcset="/blog/images/ecommerce-evolution-history-640.webp?v=rtl-raqm-20261019 640w, /blog/images/ecommerce-evolution-history.webp?v=rtl-raqm-20261019 1200w" sizes="(max-width:600px) 90vw, 330px"><img src="/blog/images/ecommerce-evolution-history.png?v=rtl-raqm-20261019" alt="تطور التجارة الإلكترونية وفرص المتاجر" width="1200" height="630" loading="lazy" decoding="async"></picture><p>بناء المتجر · 26 أغسطس 2026 · 9 دقائق</p><h2><a href="/blog/ecommerce-evolution-history">تطور التجارة الإلكترونية وفرص المتاجر</a></h2><p>تعرف على انتقال التجارة من المتاجر التقليدية إلى الإنترنت والهواتف، وما تعنيه هذه التحولات للعميل وتشغيل متجرك اليوم.</p></article><article class="card blog-card" data-category="store"><picture><source type="image/webp" srcset="/blog/images/what-is-ecommerce-640.webp?v=rtl-raqm-20261019 640w, /blog/images/what-is-ecommerce.webp?v=rtl-raqm-20261019 1200w" sizes="(max-width:600px) 90vw, 330px"><img src="/blog/images/what-is-ecommerce.png?v=rtl-raqm-20261019" alt="ما هي التجارة الإلكترونية؟ دليل للمبتدئين" width="1200" height="630" loading="lazy" decoding="async"></picture><p>بناء المتجر · 25 أغسطس 2026 · 9 دقائق</p><h2><a href="/blog/what-is-ecommerce">ما هي التجارة الإلكترونية؟ دليل للمبتدئين</a></h2><p>افهم التجارة الإلكترونية وأنواعها والمنظومة من المنتج إلى الطلب والشحن، قبل اتخاذ قرار بناء متجرك والبدء في البيع أونلاين.</p></article><!-- articles:end --></div></section><script src="/assets/blog.js" defer></script><div class="service-cta"><h2>ناقش احتياجات متجرك مع الفريق</h2><p>أرسل نوع منتجاتك والمنصة الحالية والمشكلة التي تريد حلها، لنحدد نطاق الخدمة المناسب لك.</p><a class="button" href="https://wa.me/201021231619" target="_blank" rel="noopener">تواصل على واتساب</a> </div></main><footer class="site-footer"><p>كن أونلاين — بناء وإدارة المتاجر الإلكترونية في مصر والخليج.</p><p>مصر — أسيوط — ميدان الأزهر</p><p><a href="https://wa.me/201021231619" target="_blank" rel="noopener">تواصل عبر واتساب</a></p><p><a href="/services/">الخدمات</a> · <a href="/system/">السيستم</a> · <a href="/about/">من نحن</a> · <a href="/contact/">تواصل معنا</a></p><p>© 2026 كن أونلاين — جميع الحقوق محفوظة</p><p class="social-links" aria-label="حسابات كن أونلاين الرسمية">تابع كن أونلاين: <a href="https://www.facebook.com/KunOnlineAgency" target="_blank" rel="noopener noreferrer">فيسبوك</a> · <a href="https://www.instagram.com/kunonlin/" target="_blank" rel="noopener noreferrer">إنستجرام</a></p></footer><script src="/assets/site.js?v=5a700dfc0ebe" defer></script></body></html>

diff --git a/blog/ecommerce-complete-journey-guide.html b/blog/ecommerce-complete-journey-guide.html
@@ -74,7 +74,8 @@ footer p{font-size:12px;color:var(--muted)}
 footer a{color:var(--lime)}
 ::-webkit-scrollbar{width:5px}::-webkit-scrollbar-track{background:var(--dark)}::-webkit-scrollbar-thumb{background:rgba(125,194,66,.35);border-radius:3px}
 </style>
-<link rel="stylesheet" href="/assets/site.css?v=agency-ui-20261018"><script type="application/ld+json">{"@context":"https://schema.org","@type":"Organization","@id":"https://kun-online.com/#organization","name":"كن أونلاين","alternateName":"Kun Online","url":"https://kun-online.com/","address":{"@type":"PostalAddress","addressCountry":"EG","addressRegion":"أسيوط","addressLocality":"أسيوط","streetAddress":"ميدان الأزهر"},"contactPoint":{"@type":"ContactPoint","contactType":"customer support","url":"https://wa.me/201021231619","description":"WhatsApp messages only; no voice calls."},"sameAs":["https://www.facebook.com/KunOnlineAgency","https://www.instagram.com/kunonlin/"]}</script><meta property="og:url" content="https://kun-online.com/blog/ecommerce-complete-journey-guide"></head>
+<link rel="stylesheet" href="/assets/site.css?v=agency-ui-20261018"><script type="application/ld+json">{"@context":"https://schema.org","@type":"Organization","@id":"https://kun-online.com/#organization","name":"كن أونلاين","alternateName":"Kun Online","url":"https://kun-online.com/","address":{"@type":"PostalAddress","addressCountry":"EG","addressRegion":"أسيوط","addressLocality":"أسيوط","streetAddress":"ميدان الأزهر"},"contactPoint":{"@type":"ContactPoint","contactType":"customer support","url":"https://wa.me/201021231619","description":"WhatsApp messages only; no voice calls."},"sameAs":["https://www.facebook.com/KunOnlineAgency","https://www.instagram.com/kunonlin/"]}</script><meta property="og:url" content="https://kun-online.com/blog/ecommerce-complete-journey-guide"><link rel="stylesheet" href="/assets/editorial-20261019.css?v=1">
+</head>
 <body>
 
 <nav>
@@ -94,7 +95,7 @@ footer a{color:var(--lime)}
 </div>
 
 <div class="art-featured">
-  <picture><source type="image/webp" srcset="/blog/images/ecommerce-complete-journey-guide-640.webp 640w, /blog/images/ecommerce-complete-journey-guide.webp 1200w" sizes="(max-width:820px) 95vw, 760px"><img src="/blog/images/ecommerce-complete-journey-guide.png" alt="بدء التجارة الإلكترونية: من الفكرة لأول طلب" loading="eager" width="1200" height="630"
+  <picture><source type="image/webp" srcset="/blog/images/ecommerce-complete-journey-guide-640.webp?v=rtl-raqm-20261019 640w, /blog/images/ecommerce-complete-journey-guide.webp?v=rtl-raqm-20261019 1200w" sizes="(max-width:820px) 95vw, 760px"><img src="/blog/images/ecommerce-complete-journey-guide.png?v=rtl-raqm-20261019" alt="بدء التجارة الإلكترونية: من الفكرة لأول طلب" loading="eager" width="1200" height="630"
        onerror="this.parentElement.style.display='none'"></picture>
 </div>
 

diff --git a/blog/startup-budget-egypt.html b/blog/startup-budget-egypt.html
@@ -74,7 +74,8 @@ footer p{font-size:12px;color:var(--muted)}
 footer a{color:var(--lime)}
 ::-webkit-scrollbar{width:5px}::-webkit-scrollbar-track{background:var(--dark)}::-webkit-scrollbar-thumb{background:rgba(125,194,66,.35);border-radius:3px}
 </style>
-<link rel="stylesheet" href="/assets/site.css?v=agency-ui-20261018"><script type="application/ld+json">{"@context":"https://schema.org","@type":"Organization","@id":"https://kun-online.com/#organization","name":"كن أونلاين","alternateName":"Kun Online","url":"https://kun-online.com/","address":{"@type":"PostalAddress","addressCountry":"EG","addressRegion":"أسيوط","addressLocality":"أسيوط","streetAddress":"ميدان الأزهر"},"contactPoint":{"@type":"ContactPoint","contactType":"customer support","url":"https://wa.me/201021231619","description":"WhatsApp messages only; no voice calls."},"sameAs":["https://www.facebook.com/KunOnlineAgency","https://www.instagram.com/kunonlin/"]}</script><meta property="og:url" content="https://kun-online.com/blog/startup-budget-egypt"></head>
+<link rel="stylesheet" href="/assets/site.css?v=agency-ui-20261018"><script type="application/ld+json">{"@context":"https://schema.org","@type":"Organization","@id":"https://kun-online.com/#organization","name":"كن أونلاين","alternateName":"Kun Online","url":"https://kun-online.com/","address":{"@type":"PostalAddress","addressCountry":"EG","addressRegion":"أسيوط","addressLocality":"أسيوط","streetAddress":"ميدان الأزهر"},"contactPoint":{"@type":"ContactPoint","contactType":"customer support","url":"https://wa.me/201021231619","description":"WhatsApp messages only; no voice calls."},"sameAs":["https://www.facebook.com/KunOnlineAgency","https://www.instagram.com/kunonlin/"]}</script><meta property="og:url" content="https://kun-online.com/blog/startup-budget-egypt"><link rel="stylesheet" href="/assets/editorial-20261019.css?v=1">
+</head>
 <body>
 
 <nav>
@@ -94,7 +95,7 @@ footer a{color:var(--lime)}
 </div>
 
 <div class="art-featured">
-  <picture><source type="image/webp" srcset="/blog/images/startup-budget-egypt-640.webp 640w, /blog/images/startup-budget-egypt.webp 1200w" sizes="(max-width:820px) 95vw, 760px"><img src="/blog/images/startup-budget-egypt.png" alt="تكلفة بدء التجارة الإلكترونية في مصر" loading="eager" width="1200" height="630"
+  <picture><source type="image/webp" srcset="/blog/images/startup-budget-egypt-640.webp?v=rtl-raqm-20261019 640w, /blog/images/startup-budget-egypt.webp?v=rtl-raqm-20261019 1200w" sizes="(max-width:820px) 95vw, 760px"><img src="/blog/images/startup-budget-egypt.png?v=rtl-raqm-20261019" alt="تكلفة بدء التجارة الإلكترونية في مصر" loading="eager" width="1200" height="630"
        onerror="this.parentElement.style.display='none'"></picture>
 </div>
 

diff --git a/blog/ecommerce-product-ideas-research.html b/blog/ecommerce-product-ideas-research.html
@@ -94,6 +94,7 @@ footer a{color:var(--lime)}
 ::-webkit-scrollbar{width:5px}::-webkit-scrollbar-track{background:var(--dark)}::-webkit-scrollbar-thumb{background:rgba(125,194,66,.35);border-radius:3px}
 </style>
 <link rel="stylesheet" href="/assets/site.css"><script type="application/ld+json">{"@context":"https://schema.org","@type":"Organization","@id":"https://kun-online.com/#organization","name":"كن أونلاين","alternateName":"Kun Online","url":"https://kun-online.com/","address":{"@type":"PostalAddress","addressCountry":"EG","addressRegion":"أسيوط","addressLocality":"أسيوط","streetAddress":"ميدان الأزهر"},"contactPoint":{"@type":"ContactPoint","contactType":"customer support","url":"https://wa.me/201021231619","description":"WhatsApp messages only; no voice calls."},"sameAs":["https://www.facebook.com/KunOnlineAgency","https://www.instagram.com/kunonlin/"]}</script><link href="https://fonts.googleapis.com/css2?family=Cairo:wght@400;600;700;900&family=Tajawal:wght@700;900&display=swap" rel="stylesheet">
+<link rel="stylesheet" href="/assets/editorial-20261019.css?v=1">
 </head>
 <body>
 
@@ -115,8 +116,8 @@ footer a{color:var(--lime)}
 </div>
 
 <div class="art-featured">
-  <img src="/blog/images/ecommerce-product-ideas-research.png" alt="طرق عملية لاكتشاف أفكار منتجات واختبارها" loading="eager" width="1200" height="630"
-       onerror="this.parentElement.style.display='none'">
+  <picture><source type="image/webp" srcset="/blog/images/ecommerce-product-ideas-research-640.webp?v=rtl-raqm-20261019 640w, /blog/images/ecommerce-product-ideas-research.webp?v=rtl-raqm-20261019 1200w" sizes="(max-width:820px) 95vw, 760px"><img src="/blog/images/ecommerce-product-ideas-research.png?v=rtl-raqm-20261019" alt="طرق عملية لاكتشاف أفكار منتجات واختبارها" loading="eager" width="1200" height="630"
+       onerror="this.parentElement.style.display='none'"></picture>
 </div>
 
 <div class="art-content">
